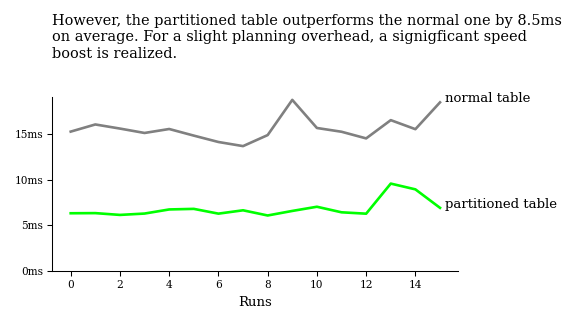
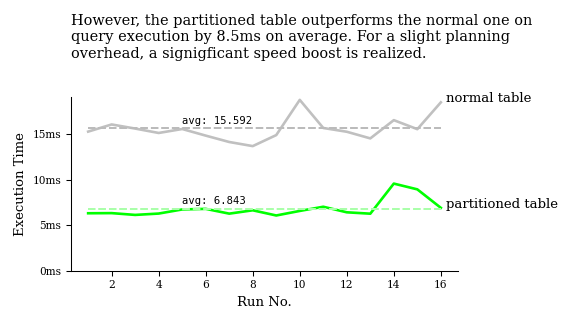
Update sql-table-partitioning article
Add y-labels and average value to lineplots.
 Also, update their titles and color.

diff --git a/_posts/2022-07-23-Table-Partitioning-In-PostgreSQL.md b/_posts/2022-07-23-Table-Partitioning-In-PostgreSQL.md
@@ -189,7 +189,7 @@ covid19_data=>
 
 ### 3. Conclusion
 
-After 15 runs on each table, it becomes evident that even though partitioned tables generally spend more time planning, they more than pay up for it with markedly faster query execution:
+After 16 runs on each table, it becomes evident that even though partitioned tables generally spend more time planning, they more than pay up for it with markedly faster query execution:
 
 ![query planning lineplot](/assets/images/articles/sql-table-partitioning/planning.png)
 
